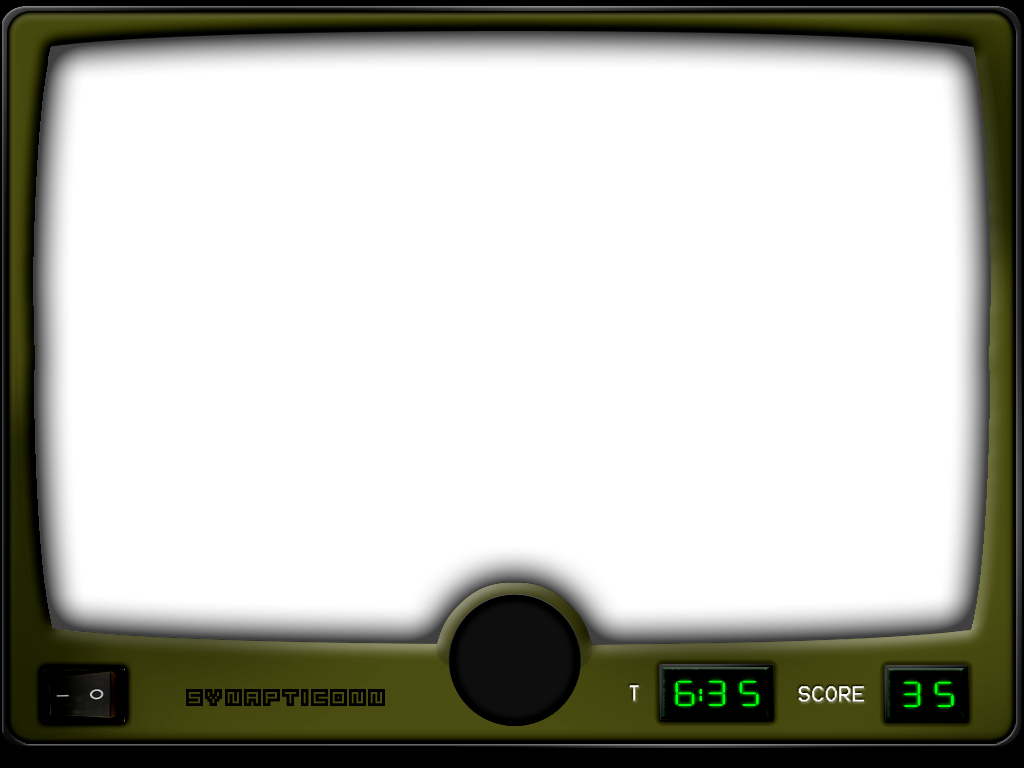
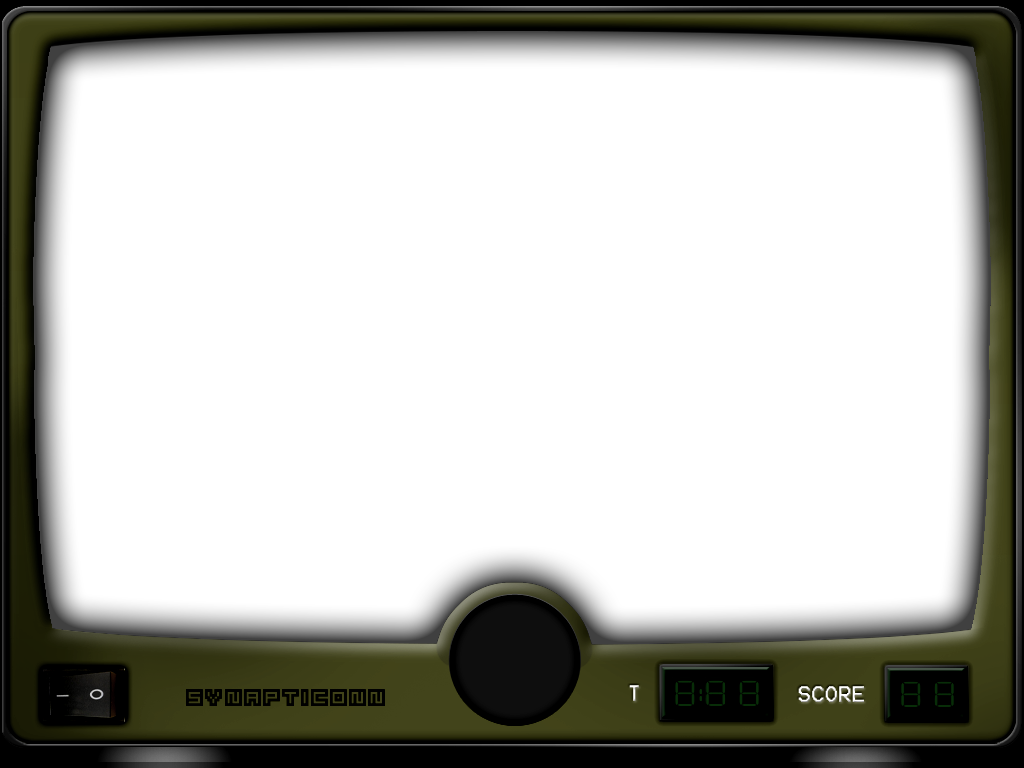
Darkened/Dulled case ... implemented 7seg displays

diff --git a/game.html b/game.html
@@ -25,6 +25,184 @@
 
 <div 	id="revolver-cyl"						style="z-index: 3000"></div>
 
+<!--
+	// [top, left, isRotated]
+
+-->
+<script>
+
+var C_SEGPOS = [[12,7,1], [6,0,0], [0,7,1], [6,14,0], [19,14,0], [23,7,1], [19,0,0]] ;
+var C_SEGTBL = [
+	[0,1,1,1,1,1,1],
+	[0,0,0,1,1,0,0],
+	[1,0,1,1,0,1,1],
+	[1,0,1,1,1,1,0],
+	[1,1,0,1,1,0,0],
+	[1,1,1,0,1,1,0],
+	[1,1,0,0,1,1,1],
+	[0,0,1,1,1,0,0],
+	[1,1,1,1,1,1,1],
+	[1,1,1,1,1,0,0]
+] ;
+function drawSegments(x,y,i)
+{
+	var el ;
+
+	for(var j = 0; j < 7; j++)
+	{
+		console.log('drawing segments at '+j) ;
+
+		el = document.createElement('img') ;
+		el.src = 'img/7seg.png' ;
+		el.style.position = 'absolute' ;
+		el.style.zIndex = 2600 ;
+		el.id = 'seg-'+i+'-'+j ;
+
+		el.style.top 	= y + C_SEGPOS[j][0] + 'px' ;
+		el.style.left 	= x + C_SEGPOS[j][1] + 'px' ;
+
+		if(C_SEGPOS[j][2] == 1) el.style.webkitTransform = 'rotate(90deg)' ;
+
+		document.getElementById('segment-container').appendChild(el) ;
+	}
+}
+
+function initSegments()
+{
+	// "Time" segments
+	drawSegments(674,673,0) ;
+	drawSegments(705,673,1) ;
+	drawSegments(737,673,2) ;
+
+	// "Score" segments
+	drawSegments(899,673,3) ;
+	drawSegments(933,673,4) ;
+
+	zeroSegments() ;
+}
+
+function zeroSegments()
+{
+	for(var iDig = 0; iDig < 5; iDig++)
+	{
+		setDigit(iDig,-1) ;
+	}
+}
+
+function setDigit(iDig,val)
+{
+	var id ;
+	var el ;
+
+	// If value is negative, turn off segments
+	if(val < 0)
+	{
+		console.log('VALUE < 0; zeroing digit...') ;
+		for(var i = 0; i < 7; i++)
+		{
+			id = 'seg-' + iDig + '-' + i ;
+			document.getElementById(id).style.display = 'none' ;
+		}
+
+		return ;
+	}
+
+	// Iterate over truth table for digit we're displaying
+	for(var i = 0; i < C_SEGTBL[val].length; i++)
+	{
+		id = 'seg-' + iDig + '-' + i ;
+		el = document.getElementById(id) ;
+
+		if(!C_SEGTBL[val][i]) el.style.display = 'none' ;
+		if(C_SEGTBL[val][i]) el.style.display = 'block' ;
+	}
+}
+
+var _T = 90 ; // Time, expressed in seconds ...
+var _S = 0 ;
+function setScore(s)
+{
+	var sOnes, sTens ;
+
+	// Break down score
+	if(s > 9)
+	{
+		sOnes = s % 10 ;
+		sTens = Math.floor(s / 10) ;
+	}
+	else
+	{
+		sOnes = s ;
+		sTens = -1 ;
+	}
+
+
+	// Clear display
+	setDigit(3,-1) ;
+	setDigit(4,-1) ;
+
+	// Re-draw it, after a short flicker
+	setDigit(3,sTens) ;
+	setDigit(4,sOnes) ;
+}
+
+function setTimer(t)
+{
+	var tSecOnes, tSecTens, tMins ;
+
+	setDigit(0,-1) ;
+	setDigit(1,-1) ;
+	setDigit(2,-1) ;
+
+	if(t < 60)
+	{
+		tMins = -1 ;
+		tSecTens = Math.floor(t / 10) ;
+		tSecOnes = t % 10 ;
+	}
+	else
+	{
+		tMins = Math.floor(t / 60) ;
+		t -= (60 * tMins) ;
+		tSecTens = Math.floor(t / 10) ;
+		tSecOnes = t % 10 ;
+	}
+
+	console.log('t value is '+t) ;
+	console.log('T: (m, sTen, sOne): '+tMins+', '+tSecTens+', '+tSecOnes) ;
+	setDigit(0,tMins) ;
+	setDigit(1,tSecTens) ;
+	setDigit(2,tSecOnes) ;
+}
+
+function testDigits()
+{
+	setDigit(1,0) ;
+}
+
+function scorePlus()
+{
+	_S++ ;
+	setScore(_S) ;
+}
+
+function timeMinus()
+{
+	if(_T < 0) return ;
+
+	_T-- ;
+	setTimer(_T) ;
+}
+
+window.setTimeout('initSegments()',500) ;
+window.setInterval('scorePlus()',2000) ;
+window.setInterval('timeMinus()',500) ;
+</script>
+<div id="segment-container">
+	<img id="seg-colon" src="img/7seg-colon.png" style="left: 696px; top: 685px" />
+</div>
+
+
 <div 	id="hardware"							style="z-index: 2500; pointer-events: none"></div>
 
 <div 	id="bubble-container" 					style="z-index: 2000"></div>
@@ -1541,6 +1719,18 @@ function randomInt(min, max)
 	width: 1024px ;
 	height: 768px ;
 	background: url('img/hardware.png') ;
+}
+
+img.disp-seg
+{
+	position: absolute ;
+	z-index: 2600 ;
+}
+
+#seg-colon
+{
+	position: absolute ;
+	z-index: 2600 ;
 }
 
 </style>
